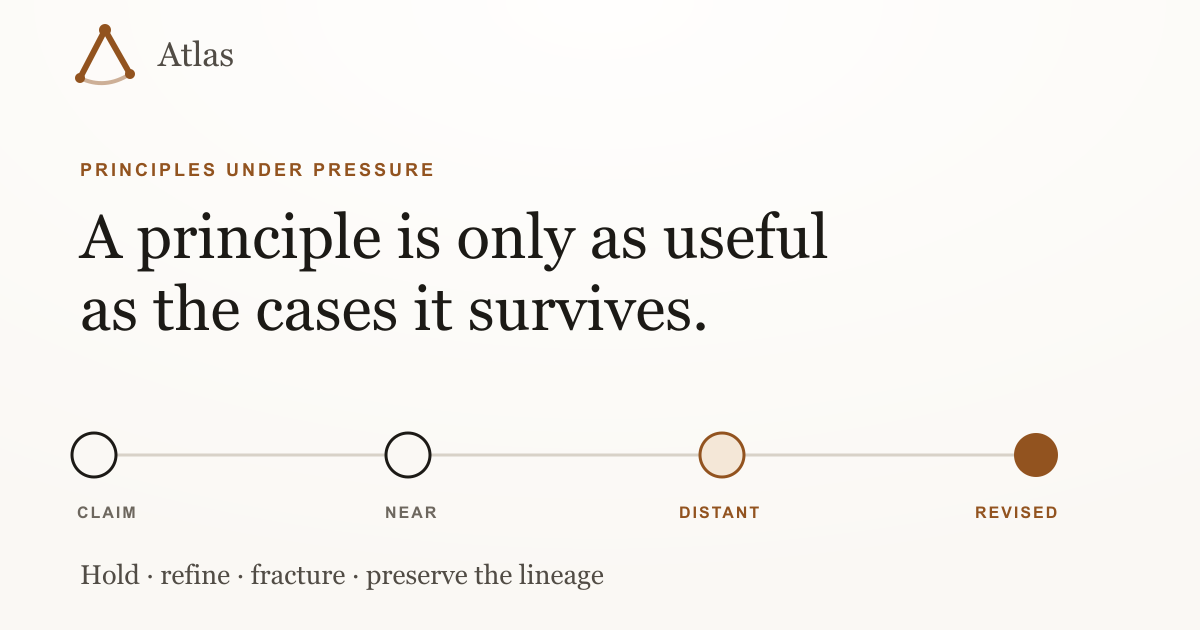
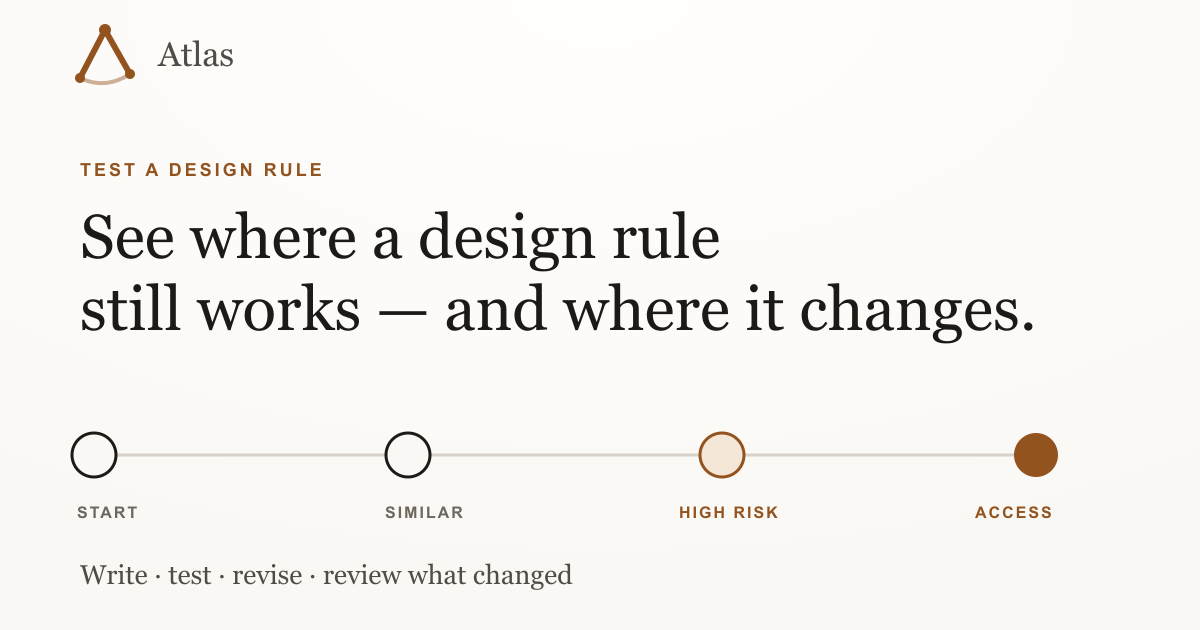
Harden Atlas production experience

diff --git a/src/components/StressTrace.tsx b/src/components/StressTrace.tsx
@@ -147,12 +147,35 @@ function loadSession(): Session {
     if (!raw) return emptySession
     const saved = JSON.parse(raw) as Partial<Session>
     if (!Array.isArray(saved.trace)) return emptySession
+    const seed = typeof saved.seed === 'string' ? saved.seed.trim() : ''
+    const started = saved.started === true && seed.length > 0
+    const trace: TracePoint[] = []
+    if (started) {
+      for (const [index, value] of saved.trace.slice(0, pressureCases.length).entries()) {
+        if (!value || typeof value !== 'object') break
+        const point = value as Partial<TracePoint>
+        if (
+          point.caseId !== pressureCases[index].id ||
+          !['held', 'refined', 'fractured'].includes(point.verdict ?? '') ||
+          typeof point.principle !== 'string' ||
+          !point.principle.trim() ||
+          typeof point.note !== 'string'
+        ) break
+        trace.push({
+          caseId: point.caseId,
+          verdict: point.verdict as Verdict,
+          principle: point.principle.trim(),
+          note: point.note,
+        })
+      }
+    }
+    const fallbackDraft = trace.at(-1)?.principle ?? seed
     return {
-      seed: typeof saved.seed === 'string' ? saved.seed : '',
-      started: Boolean(saved.started),
-      draft: typeof saved.draft === 'string' ? saved.draft : '',
+      seed,
+      started,
+      draft: typeof saved.draft === 'string' ? saved.draft : fallbackDraft,
       note: typeof saved.note === 'string' ? saved.note : '',
-      trace: saved.trace.slice(0, pressureCases.length) as TracePoint[],
+      trace,
     }
   } catch {
     return emptySession
@@ -182,12 +205,12 @@ export function StressTrace({ onBrowseExamples }: StressTraceProps) {
   const versions = useMemo(() => [seed, ...trace.map((point) => point.principle)], [seed, trace])
 
   useEffect(() => {
-    if (!started && !seed && trace.length === 0) {
+    if (!session.started && !session.seed && session.trace.length === 0) {
       window.localStorage.removeItem(STORAGE_KEY)
       return
     }
     window.localStorage.setItem(STORAGE_KEY, JSON.stringify(session))
-  }, [session, seed, started, trace.length])
+  }, [session])
 
   useEffect(() => {
     if (!started) return
@@ -290,8 +313,10 @@ export function StressTrace({ onBrowseExamples }: StressTraceProps) {
     const link = document.createElement('a')
     link.href = url
     link.download = 'atlas-rule-test.txt'
+    document.body.append(link)
     link.click()
-    URL.revokeObjectURL(url)
+    link.remove()
+    window.setTimeout(() => URL.revokeObjectURL(url), 1000)
     setShareStatus('Result downloaded.')
   }
 

diff --git a/index.html b/index.html
@@ -7,26 +7,26 @@
     <link rel="icon" type="image/svg+xml" href="/favicon.svg" />
     <link rel="canonical" href="https://atlas-slice.vercel.app/" />
 
-    <title>Atlas — Principles Under Pressure</title>
+    <title>Atlas — Test a Design Rule</title>
     <meta
       name="description"
-      content="A research-through-design instrument for testing how interaction principles hold, refine, or fracture across distant cases."
+      content="Test a design rule against three different situations, revise it when needed, and review how your thinking changed."
     />
 
     <meta property="og:type" content="website" />
     <meta property="og:url" content="https://atlas-slice.vercel.app/" />
-    <meta property="og:title" content="Atlas — Principles Under Pressure" />
+    <meta property="og:title" content="Atlas — Test a Design Rule" />
     <meta
       property="og:description"
-      content="Make a claim, carry it through distant cases, and preserve the lineage of every revision."
+      content="Test a design rule against three different situations, change it when needed, and see how your thinking developed."
     />
     <meta property="og:image" content="https://atlas-slice.vercel.app/og-atlas.png" />
     <meta property="og:image:width" content="1200" />
     <meta property="og:image:height" content="630" />
-    <meta property="og:image:alt" content="Atlas stress trace moving from an initial claim through near and distant cases to a revised principle." />
+    <meta property="og:image:alt" content="Atlas rule test showing a starting rule moving through three examples to a final rule." />
     <meta name="twitter:card" content="summary_large_image" />
-    <meta name="twitter:title" content="Atlas — Principles Under Pressure" />
-    <meta name="twitter:description" content="Make a claim, carry it through distant cases, and preserve every revision." />
+    <meta name="twitter:title" content="Atlas — Test a Design Rule" />
+    <meta name="twitter:description" content="Test a design rule against three different situations and see how your thinking changes." />
     <meta name="twitter:image" content="https://atlas-slice.vercel.app/og-atlas.png" />
 
     <link rel="preconnect" href="https://fonts.googleapis.com" />

diff --git a/src/components/Figure.tsx b/src/components/Figure.tsx
@@ -35,6 +35,13 @@ const groups: {
 ]
 
 export function Figure({ onBack, onAsk }: FigureProps) {
+  function goToGroup(kind: Entry['kind']) {
+    const section = document.getElementById(`pattern-${kind}`)
+    const heading = document.getElementById(`heading-${kind}`)
+    section?.scrollIntoView({ block: 'start' })
+    window.requestAnimationFrame(() => heading?.focus({ preventScroll: true }))
+  }
+
   return (
     <div className="w-full max-w-4xl">
       <button
@@ -50,7 +57,7 @@ export function Figure({ onBack, onAsk }: FigureProps) {
         All design examples · {allEntries.length} total
       </p>
       <h1 className="mt-2 max-w-2xl text-balance font-serif text-3xl leading-snug text-ink sm:text-4xl">
-        Browse all 33 design questions and answers.
+        Browse all {allEntries.length} design questions and answers.
       </h1>
       <p className="mt-4 max-w-2xl text-pretty text-[15px] leading-relaxed text-ink-soft">
         The questions are grouped by four common ways an answer can unfold. These groups are a writing aid, not a proven system. Open any question to read the full answer.
@@ -61,7 +68,7 @@ export function Figure({ onBack, onAsk }: FigureProps) {
           <button
             type="button"
             key={group.kind}
-            onClick={() => document.getElementById(`pattern-${group.kind}`)?.scrollIntoView({ block: 'start' })}
+            onClick={() => goToGroup(group.kind)}
             className="inline-flex min-h-11 items-center rounded-full border border-control px-3 text-sm font-medium text-ink-soft transition-colors hover:border-accent hover:text-ink focus-visible:outline-none focus-visible:ring-2 focus-visible:ring-accent"
           >
             {group.title}
@@ -77,7 +84,7 @@ export function Figure({ onBack, onAsk }: FigureProps) {
               <div className="mb-3 grid gap-4 border-b border-line pb-4 sm:grid-cols-[minmax(0,1fr)_240px] sm:items-end">
                 <div>
                   <div className="flex flex-wrap items-baseline justify-between gap-2">
-                    <h2 className="font-serif text-2xl text-ink">{group.title}</h2>
+                    <h2 id={`heading-${group.kind}`} tabIndex={-1} className="font-serif text-2xl text-ink outline-none">{group.title}</h2>
                     <p className="font-mono text-[11px] font-medium uppercase tracking-[0.12em] text-ink-faint">
                       {entries.length} {entries.length === 1 ? 'example' : 'examples'}
                     </p>

diff --git a/src/components/MisconceptionAnswer.tsx b/src/components/MisconceptionAnswer.tsx
@@ -1,4 +1,4 @@
-import { useState } from 'react'
+import { useEffect, useRef, useState } from 'react'
 import { motion, useReducedMotion } from 'framer-motion'
 import type { MisconceptionEntry } from '../content/entry'
 import { RevealSection } from './RevealSection'
@@ -36,6 +36,13 @@ type MisconceptionAnswerProps = {
 export function MisconceptionAnswer({ entry, askedQuery }: MisconceptionAnswerProps) {
   const [guess, setGuess] = useState<'true' | 'false' | null>(null)
   const reduceMotion = useReducedMotion()
+  const responseRef = useRef<HTMLParagraphElement>(null)
+
+  useEffect(() => {
+    if (!guess) return
+    const id = window.requestAnimationFrame(() => responseRef.current?.focus({ preventScroll: true }))
+    return () => window.cancelAnimationFrame(id)
+  }, [guess])
 
   // Every mirrorClaim in the corpus is the false belief being corrected, so
   // guessing "false" is the correct instinct. The reveal that follows was
@@ -67,10 +74,12 @@ export function MisconceptionAnswer({ entry, askedQuery }: MisconceptionAnswerPr
                 "false" guess from an incorrect "true" one. Same quiet weight
                 as the Recede line below, not competing with the contradiction. */}
             <motion.p
+              ref={responseRef}
+              tabIndex={-1}
               initial={reduceMotion ? false : { opacity: 0 }}
               animate={{ opacity: 1 }}
               transition={{ duration: 0.2 }}
-              className="text-sm font-medium text-ink-faint"
+              className="text-sm font-medium text-ink-faint outline-none"
             >
               {guessedCorrectly
                 ? "You called it. Here's exactly why:"

diff --git a/src/App.tsx b/src/App.tsx
@@ -59,6 +59,14 @@ function App() {
   }, [])
 
   useEffect(() => {
+    document.title = route.entry
+      ? `${route.entry.query} — Atlas`
+      : route.view === 'corpus'
+        ? `${allEntries.length} Design Examples — Atlas`
+        : route.view === 'about'
+          ? 'About Atlas'
+          : 'Atlas — Test a Design Rule'
+
     if (!hasMounted.current) {
       hasMounted.current = true
       return

diff --git a/src/components/MechanicsDisclosure.tsx b/src/components/MechanicsDisclosure.tsx
@@ -1,4 +1,4 @@
-import { useState } from 'react'
+import { useId, useState } from 'react'
 import { motion, useReducedMotion } from 'framer-motion'
 import { CaretRight } from '@phosphor-icons/react'
 
@@ -16,6 +16,7 @@ type MechanicsDisclosureProps = {
  */
 export function MechanicsDisclosure({ mechanics }: MechanicsDisclosureProps) {
   const [open, setOpen] = useState(false)
+  const contentId = useId()
   const reduceMotion = useReducedMotion()
 
   return (
@@ -24,6 +25,7 @@ export function MechanicsDisclosure({ mechanics }: MechanicsDisclosureProps) {
         type="button"
         onClick={() => setOpen((v) => !v)}
         aria-expanded={open}
+        aria-controls={contentId}
         className="flex min-h-11 items-center gap-2 rounded-sm text-sm font-medium text-ink-soft transition-colors duration-150 hover:text-ink cursor-pointer focus-visible:outline-none focus-visible:ring-2 focus-visible:ring-accent focus-visible:ring-offset-2 focus-visible:ring-offset-paper"
       >
         <motion.span
@@ -37,6 +39,8 @@ export function MechanicsDisclosure({ mechanics }: MechanicsDisclosureProps) {
       </button>
 
       <div
+        id={contentId}
+        aria-hidden={!open}
         className="grid transition-[grid-template-rows] duration-300 ease-out"
         style={{ gridTemplateRows: open ? '1fr' : '0fr' }}
       >

diff --git a/src/components/TransferExercise.tsx b/src/components/TransferExercise.tsx
@@ -78,7 +78,7 @@ export function TransferExercise({ entry }: TransferExerciseProps) {
                       aria-pressed={isChosen}
                       onClick={() => place(i, side)}
                       className={[
-                        'min-h-12 flex-1 rounded-sm border px-4 py-2.5 text-left text-sm leading-snug transition-all duration-150 cursor-pointer focus-visible:outline-none focus-visible:ring-2 focus-visible:ring-accent focus-visible:ring-offset-2 focus-visible:ring-offset-paper',
+                        'min-h-12 flex-1 cursor-pointer rounded-sm border px-4 py-2.5 text-left text-sm leading-snug transition-[border-color,background-color,color] duration-150 focus-visible:outline-none focus-visible:ring-2 focus-visible:ring-accent focus-visible:ring-offset-2 focus-visible:ring-offset-paper',
                         isChosen
                           ? 'border-accent bg-accent-soft/70 text-ink'
                           : 'border-control text-ink-soft hover:border-accent',
@@ -93,6 +93,10 @@ export function TransferExercise({ entry }: TransferExerciseProps) {
           )
         })}
       </div>
+
+      <p className="sr-only" aria-live="polite">
+        {allPlaced ? 'Your reading is ready below.' : ''}
+      </p>
 
       {/* The reader's placements, read back as a held set — never merged into a
           verdict. Only appears once all three are placed. */}

diff --git a/src/components/PrincipleCard.tsx b/src/components/PrincipleCard.tsx
@@ -10,8 +10,8 @@ export function PrincipleCard({ principle, bridge }: PrincipleCardProps) {
   const [status, setStatus] = useState<'idle' | 'copied' | 'error'>('idle')
 
   useEffect(() => {
-    if (status !== 'copied') return
-    const id = window.setTimeout(() => setStatus('idle'), 1800)
+    if (status === 'idle') return
+    const id = window.setTimeout(() => setStatus('idle'), status === 'copied' ? 1800 : 2600)
     return () => window.clearTimeout(id)
   }, [status])
 

diff --git a/src/components/BranchChoice.tsx b/src/components/BranchChoice.tsx
@@ -31,9 +31,10 @@ export function BranchChoice({
             <button
               key={branch.value}
               type="button"
+              aria-pressed={isSelected}
               onClick={() => onSelect(branch.value)}
               className={[
-                'min-h-12 flex-1 rounded-sm border px-4 py-3 text-left text-[15px] leading-snug transition-all duration-150 cursor-pointer focus-visible:outline-none focus-visible:ring-2 focus-visible:ring-accent focus-visible:ring-offset-2 focus-visible:ring-offset-paper',
+                'min-h-12 flex-1 cursor-pointer rounded-sm border px-4 py-3 text-left text-[15px] leading-snug transition-[border-color,background-color,color,opacity] duration-150 focus-visible:outline-none focus-visible:ring-2 focus-visible:ring-accent focus-visible:ring-offset-2 focus-visible:ring-offset-paper',
                 isSelected
                   ? 'border-accent bg-accent-soft/70 text-ink'
                   : 'border-control text-ink-soft hover:border-accent',